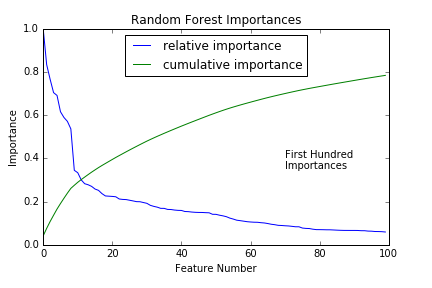
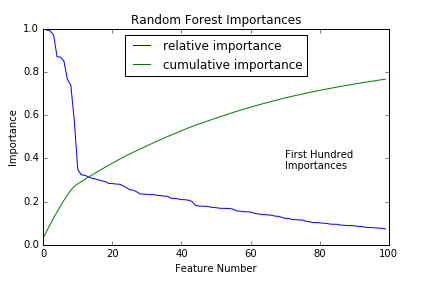
use 500 estimators for validation

diff --git a/read_clean_data.py b/read_clean_data.py
@@ -311,7 +311,7 @@ if __name__ == '__main__':
 #    print("validation: dfvalid_y head", dfvalid_y.shape, "\n", dfvalid_y[:5])
     
     print("Validation fit")
-    clf = RandomForestClassifier(n_estimators=100)
+    clf = RandomForestClassifier(n_estimators=500)  # 100 or 500
     score, imp = rfFitScore(clf, dftrain, dftrain_y, dfvalid, dfvalid_y)
     impcol = getImportantColumns(dftrain.columns, imp)
 #    sum(list(map(lambda e: e[0], impcol)))  # equals 1.0
